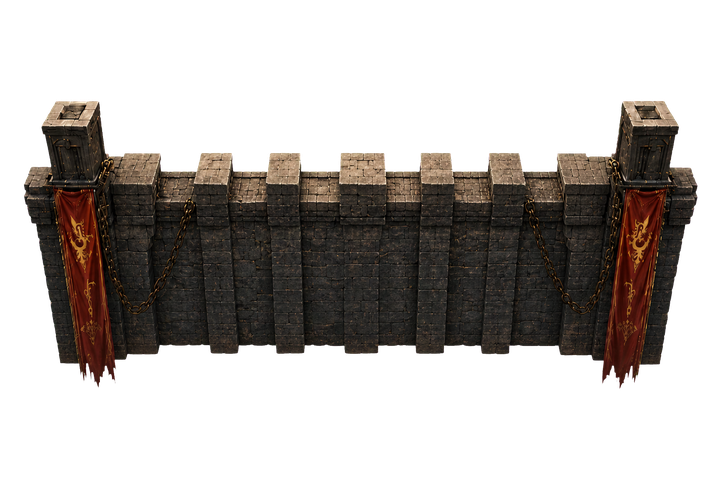
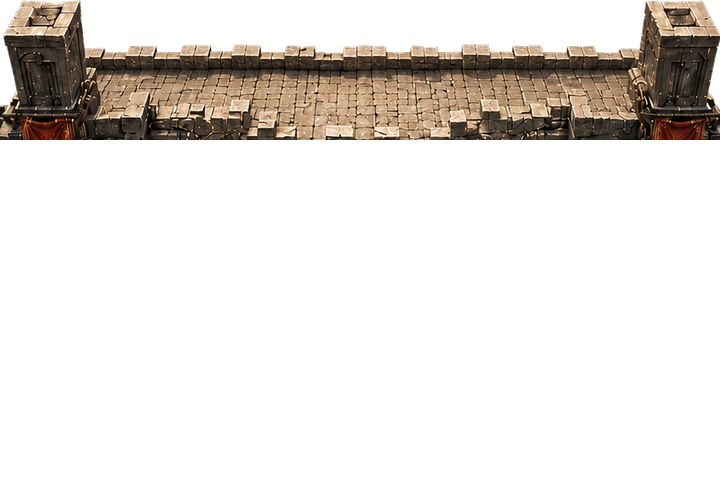
feat: replace battle wall with reference fortress

diff --git a/tools/terrain-system.test.ts b/tools/terrain-system.test.ts
@@ -127,6 +127,8 @@ runTest('terrain config fixes the wall and five-unit formation coordinates', () 
 });
 
 runTest('terrain config defines the seven modular assets and stable render roots', () => {
+  assert.equal(BATTLE_TERRAIN_LAYERS.find((layer) => layer.id === 'ruinsLeft')?.x, -237.6);
+  assert.equal(BATTLE_TERRAIN_LAYERS.find((layer) => layer.id === 'ruinsRight')?.x, 237.6);
   assert.deepEqual(
     BATTLE_TERRAIN_LAYERS.map((layer) => ({
       id: layer.id,
@@ -182,7 +184,7 @@ runTest('terrain config defines the seven modular assets and stable render roots
         id: 'wallFront',
         filename: 'battle_wall_front.png',
         size: [720, 340],
-        required: false,
+        required: true,
         expectsAlpha: true,
       },
     ],
@@ -202,12 +204,24 @@ runTest('required terrain layers switch atomically while optional failures degra
   const pending = createBattleTerrainLoadState(BATTLE_TERRAIN_LAYERS);
   assert.equal(resolveBattleTerrainMode(pending, BATTLE_TERRAIN_LAYERS), 'loading');
 
+  const baseAndBackReady = { ...pending, base: 'ready' as const, wallBack: 'ready' as const };
+  assert.equal(
+    resolveBattleTerrainMode(baseAndBackReady, BATTLE_TERRAIN_LAYERS),
+    'loading',
+  );
   assert.equal(
     resolveBattleTerrainMode(
-      { ...pending, base: 'ready', wallBack: 'ready' },
+      { ...baseAndBackReady, wallFront: 'ready' },
       BATTLE_TERRAIN_LAYERS,
     ),
     'modular',
+  );
+  assert.equal(
+    resolveBattleTerrainMode(
+      { ...baseAndBackReady, wallFront: 'failed' },
+      BATTLE_TERRAIN_LAYERS,
+    ),
+    'legacy',
   );
   assert.equal(
     resolveBattleTerrainMode({ ...pending, base: 'failed' }, BATTLE_TERRAIN_LAYERS),
@@ -215,7 +229,7 @@ runTest('required terrain layers switch atomically while optional failures degra
   );
   assert.equal(
     resolveBattleTerrainMode(
-      { ...pending, base: 'ready', wallBack: 'ready', road: 'failed' },
+      { ...baseAndBackReady, wallFront: 'ready', road: 'failed' },
       BATTLE_TERRAIN_LAYERS,
     ),
     'modular',
@@ -247,10 +261,26 @@ runTest('terrain asset files, alpha, metadata and generated UUID manifest agree'
     ];
     if (spec.expectsAlpha) {
       assert.equal(png.colorType, 6, `${spec.filename} must contain RGBA pixels`);
-      assert.ok(
-        cornerAlphas.filter((alpha) => alpha < 16).length >= 3,
-        `${spec.filename} must not contain a solid rectangular background`,
-      );
+      if (spec.id === 'wallBack' || spec.id === 'wallFront') {
+        let transparentPixels = 0;
+        let opaquePixels = 0;
+        for (let y = 0; y < png.height; y += 1) {
+          for (let x = 0; x < png.width; x += 1) {
+            const alpha = png.alphaAt(x, y);
+            if (alpha < 16) transparentPixels += 1;
+            if (alpha > 240) opaquePixels += 1;
+          }
+        }
+        const visibleRatio = 1 - transparentPixels / (png.width * png.height);
+        assert.ok(visibleRatio > 0.08 && visibleRatio < 0.9, `${spec.filename} visible coverage drifted`);
+        assert.ok(transparentPixels > 0, `${spec.filename} needs transparent padding`);
+        assert.ok(opaquePixels > 0, `${spec.filename} needs opaque wall pixels`);
+      } else {
+        assert.ok(
+          cornerAlphas.filter((alpha) => alpha < 16).length >= 3,
+          `${spec.filename} must not contain a solid rectangular background`,
+        );
+      }
     } else {
       assert.ok(
         cornerAlphas.every((alpha) => alpha === 255),

diff --git a/assets/scripts/data/BattleTerrainConfig.ts b/assets/scripts/data/BattleTerrainConfig.ts
@@ -65,7 +65,7 @@ export const BATTLE_TERRAIN_LAYERS: readonly BattleTerrainLayerSpec[] = [
     path: 'battle_common/battle_ruins_left',
     width: 360,
     height: 900,
-    x: -180,
+    x: -237.6,
     y: 55,
     required: false,
     expectsAlpha: true,
@@ -77,7 +77,7 @@ export const BATTLE_TERRAIN_LAYERS: readonly BattleTerrainLayerSpec[] = [
     path: 'battle_common/battle_ruins_right',
     width: 360,
     height: 900,
-    x: 180,
+    x: 237.6,
     y: 55,
     required: false,
     expectsAlpha: true,
@@ -115,7 +115,7 @@ export const BATTLE_TERRAIN_LAYERS: readonly BattleTerrainLayerSpec[] = [
     height: 340,
     x: 0,
     y: BATTLE_WALL_LAYOUT.wallFrontY,
-    required: false,
+    required: true,
     expectsAlpha: true,
   },
 ] as const;

diff --git a/tools/extract_reference_fortress.py b/tools/extract_reference_fortress.py
@@ -1,0 +1,110 @@
+from __future__ import annotations
+
+import argparse
+from collections import deque
+from pathlib import Path
+
+from PIL import Image
+
+
+TARGET_WIDTH = 720
+BACK_SIZE = (720, 480)
+FRONT_SIZE = (720, 340)
+SPLIT_Y = 140
+
+
+def is_connected_white(pixel: tuple[int, int, int, int]) -> bool:
+    red, green, blue, alpha = pixel
+    return (
+        alpha > 0
+        and min(red, green, blue) >= 220
+        and max(red, green, blue) - min(red, green, blue) <= 18
+    )
+
+
+def remove_connected_background(source: Image.Image) -> Image.Image:
+    image = source.convert('RGBA')
+    width, height = image.size
+    pixels = image.load()
+    queue: deque[tuple[int, int]] = deque()
+    background: set[tuple[int, int]] = set()
+
+    for x in range(width):
+        queue.append((x, 0))
+        queue.append((x, height - 1))
+    for y in range(height):
+        queue.append((0, y))
+        queue.append((width - 1, y))
+
+    while queue:
+        x, y = queue.popleft()
+        if (x, y) in background or not is_connected_white(pixels[x, y]):
+            continue
+        background.add((x, y))
+        if x > 0:
+            queue.append((x - 1, y))
+        if x + 1 < width:
+            queue.append((x + 1, y))
+        if y > 0:
+            queue.append((x, y - 1))
+        if y + 1 < height:
+            queue.append((x, y + 1))
+
+    for x, y in background:
+        red, green, blue, _ = pixels[x, y]
+        pixels[x, y] = (red, green, blue, 0)
+
+    original = source.convert('RGBA')
+    original_pixels = original.load()
+    for y in range(height):
+        for x in range(width):
+            if (x, y) in background:
+                continue
+            neighbors = ((x - 1, y), (x + 1, y), (x, y - 1), (x, y + 1))
+            if not any(neighbor in background for neighbor in neighbors):
+                continue
+            red, green, blue, alpha = original_pixels[x, y]
+            minimum = min(red, green, blue)
+            chroma = max(red, green, blue) - minimum
+            if minimum < 180 or chroma > 24:
+                continue
+            edge_alpha = max(0, min(255, round((255 - minimum) * 255 / 75)))
+            pixels[x, y] = (red, green, blue, min(alpha, edge_alpha))
+
+    return image
+
+
+def write_layers(source_path: Path, output_dir: Path) -> tuple[int, int]:
+    extracted = remove_connected_background(Image.open(source_path))
+    alpha_box = extracted.getchannel('A').getbbox()
+    if alpha_box is None:
+        raise ValueError('reference wall has no visible subject')
+
+    subject = extracted.crop(alpha_box)
+    target_height = round(subject.height * TARGET_WIDTH / subject.width)
+    if target_height <= SPLIT_Y or target_height - SPLIT_Y > FRONT_SIZE[1]:
+        raise ValueError(f'wall height {target_height} does not fit the approved canvases')
+    subject = subject.resize((TARGET_WIDTH, target_height), Image.Resampling.LANCZOS)
+
+    back = Image.new('RGBA', BACK_SIZE, (0, 0, 0, 0))
+    front = Image.new('RGBA', FRONT_SIZE, (0, 0, 0, 0))
+    back.alpha_composite(subject.crop((0, 0, TARGET_WIDTH, SPLIT_Y)), (0, 0))
+    front.alpha_composite(subject.crop((0, SPLIT_Y, TARGET_WIDTH, target_height)), (0, 0))
+
+    output_dir.mkdir(parents=True, exist_ok=True)
+    back.save(output_dir / 'battle_wall_back.png', optimize=True)
+    front.save(output_dir / 'battle_wall_front.png', optimize=True)
+    return subject.size
+
+
+def main() -> None:
+    parser = argparse.ArgumentParser()
+    parser.add_argument('--source', type=Path, required=True)
+    parser.add_argument('--output-dir', type=Path, required=True)
+    args = parser.parse_args()
+    width, height = write_layers(args.source, args.output_dir)
+    print(f'Extracted reference fortress at {width}x{height}, split at y={SPLIT_Y}.')
+
+
+if __name__ == '__main__':
+    main()